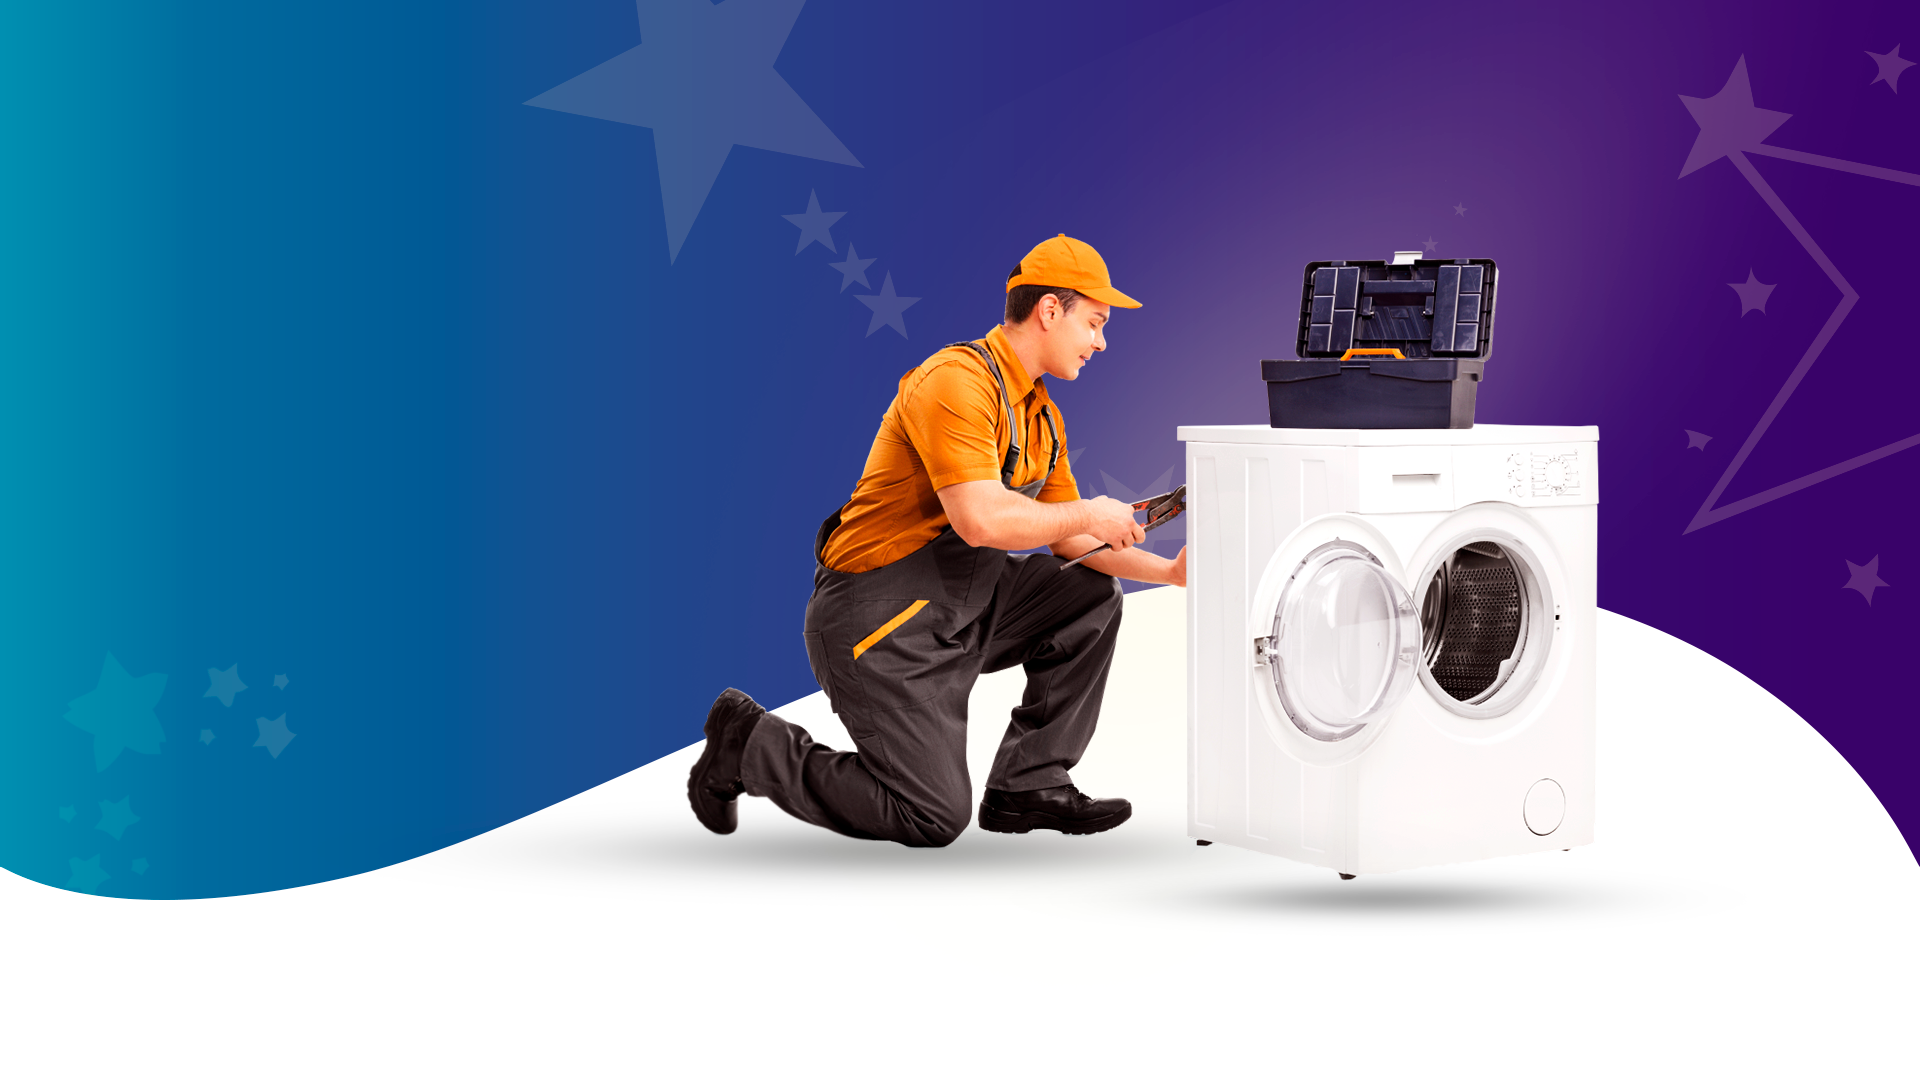
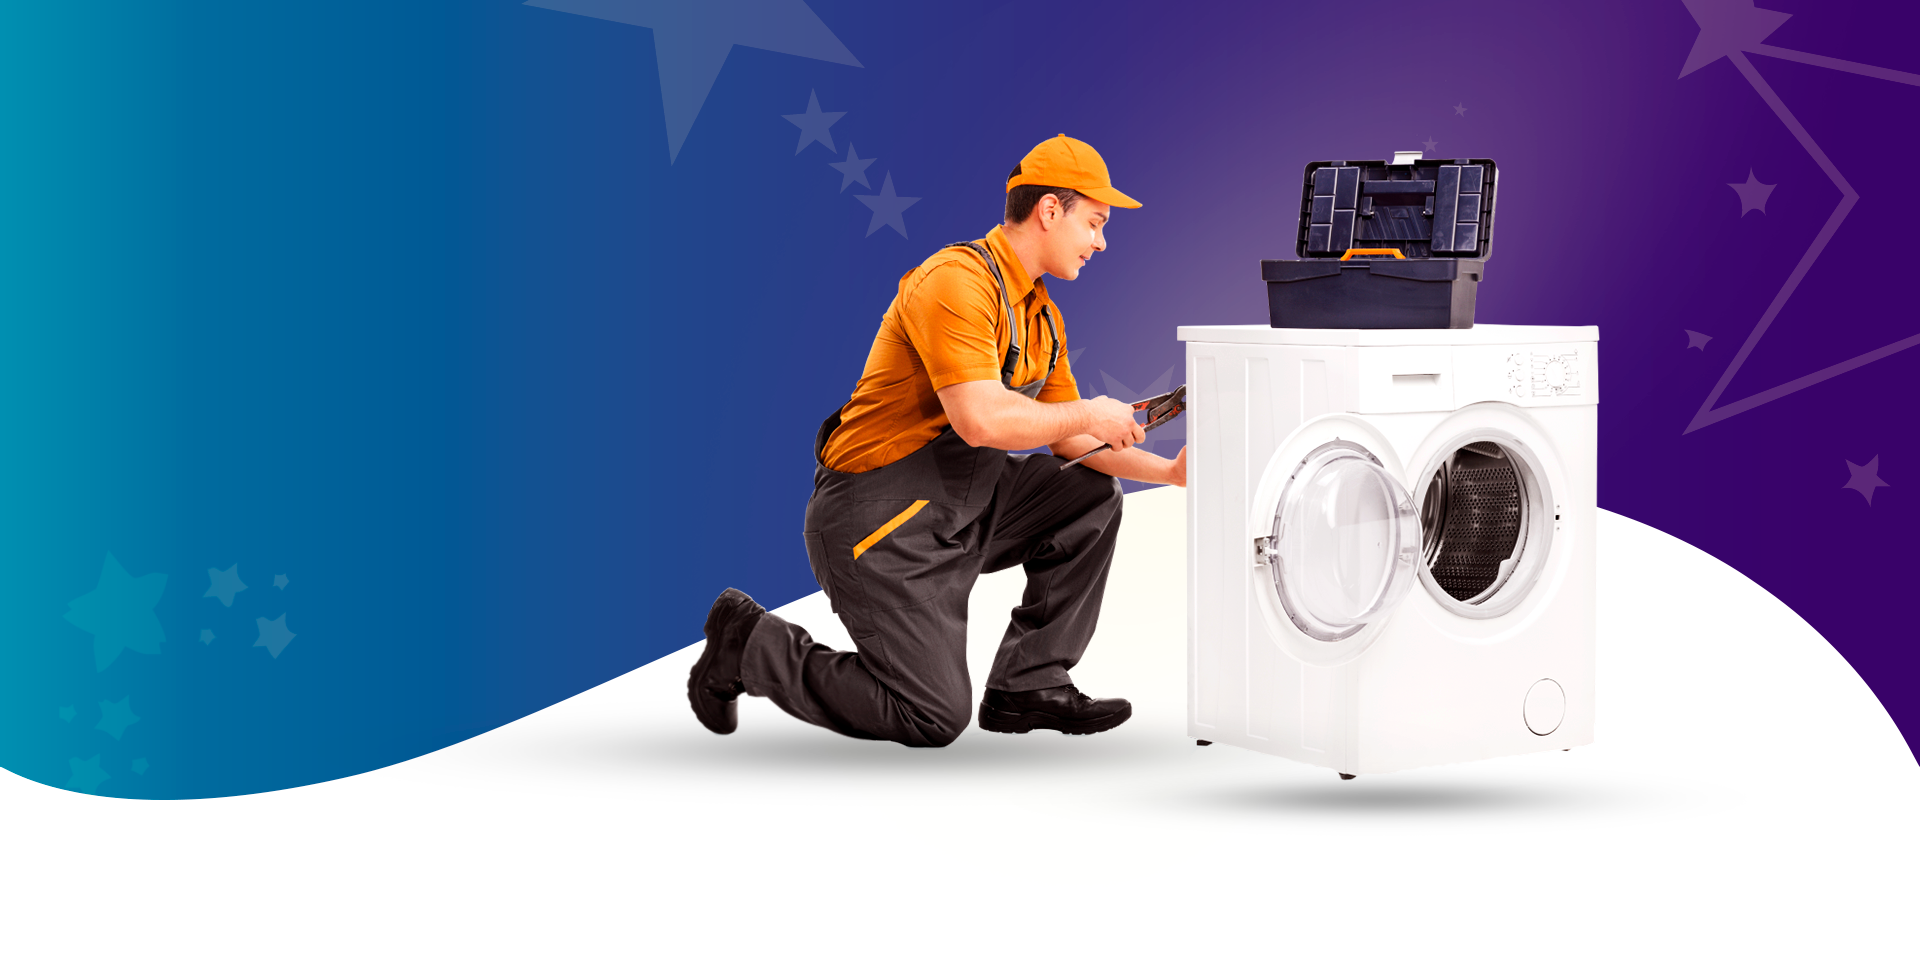
added a new section

diff --git a/repair/src/pages/MainPage/index.tsx b/repair/src/pages/MainPage/index.tsx
@@ -2,6 +2,7 @@ import React from "react";
 
 //components
 import MainMenu from "components/MainMenu";
+import Button from "components/Button";
 
 // routes
 import routeMain from "./routes";
@@ -14,51 +15,70 @@ const MainPage = () => {
   const imgItem_2 = require("assets/img/interactive.png");
   const imgItem_3 = require("assets/img/quality.png");
   const imgItem_4 = require("assets/img/guarantee.png");
+  const washingMashine = require("assets/img/askprice.png");
   return (
-    <section className="mainSection">
-      <div className="container">
-        <div className="blockMenu">
-          <MainMenu />
+    <div>
+      <section className="mainSection">
+        <div className="container">
+          <div className="blockMenu">
+            <MainMenu />
+          </div>
+          <div className="wrapper">
+            <h1> Ремонт стиральных машин в Москве</h1>
+            <ul className="list">
+              <li className="list__item">Отличные цены на запчасти</li>
+              <li className="list__item">Фирменная гарантия на все работы</li>
+              <li className="list__item">Ремонт в день обращения</li>
+            </ul>
+            <Button text="Заказать ремонт" />
+          </div>
+          <div className="advantage">
+            <div className="advantage__item">
+              <div>
+                <img src={imgItem_1} alt="time" />
+              </div>
+              <p>Выезд мастера в течение 60 мин.</p>
+            </div>
+            <div className="advantage__item">
+              <div>
+                <img src={imgItem_2} alt="interactive" />
+              </div>
+              <p>Бесплатная экспресс- диагностика</p>
+            </div>
+            <div className="advantage__item">
+              <div>
+                <img src={imgItem_3} alt="quality" />
+              </div>
+              <p>Ремонт оригинальными комплектующими</p>
+            </div>
+            <div className="advantage__item">
+              <div>
+                <img src={imgItem_4} alt="guarantee" />
+              </div>
+              <p>Гарантия каждому владельцу до 2-х лет</p>
+            </div>
+          </div>
         </div>
-        <div className="wrapper">
-          <h1> Ремонт стиральных машин в Москве</h1>
-          <ul className="list">
-            <li className="list__item">Отличные цены на запчасти</li>
-            <li className="list__item">Фирменная гарантия на все работы</li>
-            <li className="list__item">Ремонт в день обращения</li>
-          </ul>
-          <a className="btn-order" href="#">
-            Заказать ремонт
-          </a>
+      </section>
+      <section className="questions">
+        <div className="questions__img">
+          <img src={washingMashine} alt="washing mashine"></img>
         </div>
-        <div className="advantage">
-          <div className="advantage__item">
-            <div>
-              <img src={imgItem_1} alt="time" />
-            </div>
-            <p>Выезд мастера в течение 60 мин.</p>
-          </div>
-          <div className="advantage__item">
-            <div>
-              <img src={imgItem_2} alt="interactive" />
-            </div>
-            <p>Бесплатная экспресс- диагностика</p>
-          </div>
-          <div className="advantage__item">
-            <div>
-              <img src={imgItem_3} alt="quality" />
-            </div>
-            <p>Ремонт оригинальными комплектующими</p>
-          </div>
-          <div className="advantage__item">
-            <div>
-              <img src={imgItem_4} alt="guarantee" />
-            </div>
-            <p>Гарантия каждому владельцу до 2-х лет</p>
+        <div className="questions__text">
+          <div>
+            <p>
+              Ответьте на вопросы и узнайте точную стоимость ремонта вашей
+              машинки
+            </p>
+            <p className="text">
+              Мы перезвоним Вам и подробно проконсультируем по всем вопросам по
+              ремонту стиральной машинки
+            </p>
+            <Button text="Узнать стоимость" />
           </div>
         </div>
-      </div>
-    </section>
+      </section>
+    </div>
   );
 };
 

diff --git a/repair/src/pages/MainPage/styles.scss b/repair/src/pages/MainPage/styles.scss
@@ -2,7 +2,7 @@
   background: url("../../assets/img/Монтажная область.png") no-repeat center top /
     contain;
   color: #fff;
-  padding-bottom: 115px;
+  padding-bottom: 35px;
   .container {
     .blockMenu {
       background: #fff;
@@ -12,70 +12,85 @@
         color: #000;
       }
     }
-  }
-}
-
-.wrapper {
-  margin-top: 108px;
-  h1 {
-    width: 525px;
-    font-weight: 700;
-    font-size: 39px;
-    line-height: 46px;
-    margin-bottom: 41px;
-  }
-  .list {
-    .list__item {
-      font-weight: 500;
-      font-size: 20px;
-      line-height: 119.69%;
-      margin-left: 25px;
-    }
-  }
-  .btn-order {
-    margin-top: 41px;
-    display: inline-block;
-    width: 250px;
-    height: 60px;
-    background: #00bb34;
-    box-shadow: 2px 8px 30px #00bb34;
-    border-radius: 10px;
-    line-height: 60px;
-    text-align: center;
-    font-weight: 700;
-    font-size: 16px;
-  }
-}
-
-.advantage {
-  margin-top: 431px;
-  display: flex;
-  justify-content: space-between;
-  align-items: center;
-  .advantage__item {
-    width: 262px;
-    border-radius: 28px;
-    background: linear-gradient(180deg, #a6dbf5 0%, #451874 97.92%);
-    text-align: center;
-    padding-top: 54px;
-    padding-bottom: 62px;
-    div {
-      width: 97px;
-      height: 97px;
-      border-radius: 50%;
-      background: #fff;
-      display: flex;
-      align-items: center;
-      margin-right: auto;
-      margin-left: auto;
-      img {
-        margin-right: auto;
-        margin-left: auto;
+    .wrapper {
+      ul {
+        margin-bottom: 41px;
+      }
+      margin-top: 108px;
+      h1 {
+        width: 525px;
+        font-weight: 700;
+        font-size: 39px;
+        line-height: 46px;
+        margin-bottom: 41px;
+      }
+      .list {
+        .list__item {
+          font-weight: 500;
+          font-size: 20px;
+          line-height: 119.69%;
+          margin-left: 25px;
+        }
       }
     }
-    p {
-      max-width: 180px;
-      margin: 0 auto;
+    .advantage {
+      margin-top: 331px;
+      display: flex;
+      justify-content: space-between;
+      align-items: center;
+      .advantage__item {
+        width: 262px;
+        border-radius: 28px;
+        background: linear-gradient(180deg, #a6dbf5 0%, #451874 97.92%);
+        text-align: center;
+        padding-top: 54px;
+        padding-bottom: 62px;
+        div {
+          width: 97px;
+          height: 97px;
+          border-radius: 50%;
+          background: #fff;
+          display: flex;
+          align-items: center;
+          margin-right: auto;
+          margin-left: auto;
+          img {
+            margin-right: auto;
+            margin-left: auto;
+          }
+        }
+        p {
+          max-width: 180px;
+          margin: 0 auto;
+        }
+      }
+    }
+  }
+}
+
+.questions {
+  display: flex;
+  .questions__img {
+    padding: 70px 0;
+  }
+  .questions__text {
+    background: url("../../assets/img/askpricestar.png") no-repeat left top;
+    display: flex;
+    padding-left: 93px;
+    align-items: center;
+    color: #000000;
+    font-weight: 500;
+    :first-child {
+      line-height: 119.69%;
+      font-size: 28px;
+      max-width: 570px;
+      margin-bottom: 35px;
+    }
+    .text {
+      line-height: 119.69%;
+      font-size: 15px;
+      max-width: 375px;
+      margin-bottom: 35px;
     }
   }
 }

diff --git a/repair/src/components/Button/index.tsx b/repair/src/components/Button/index.tsx
@@ -1,0 +1,16 @@
+import React from "react";
+
+//types
+import { BtnText } from "types/BtnText";
+
+import "./styles.scss";
+
+const Button = (props: BtnText) => {
+  return (
+    <a className="btn-order" href="#">
+      {props.text}
+    </a>
+  );
+};
+
+export default Button;

diff --git a/repair/src/components/Button/styles.scss b/repair/src/components/Button/styles.scss
@@ -1,0 +1,12 @@
+.btn-order {
+  display: inline-block;
+  width: 250px;
+  height: 60px;
+  background: #00bb34;
+  box-shadow: 2px 8px 30px #00bb34;
+  border-radius: 10px;
+  line-height: 60px;
+  text-align: center;
+  font-weight: 700;
+  font-size: 16px;
+}

diff --git a/repair/src/types/BtnText.ts b/repair/src/types/BtnText.ts
@@ -1,0 +1,3 @@
+export interface BtnText {
+  text: string;
+}
